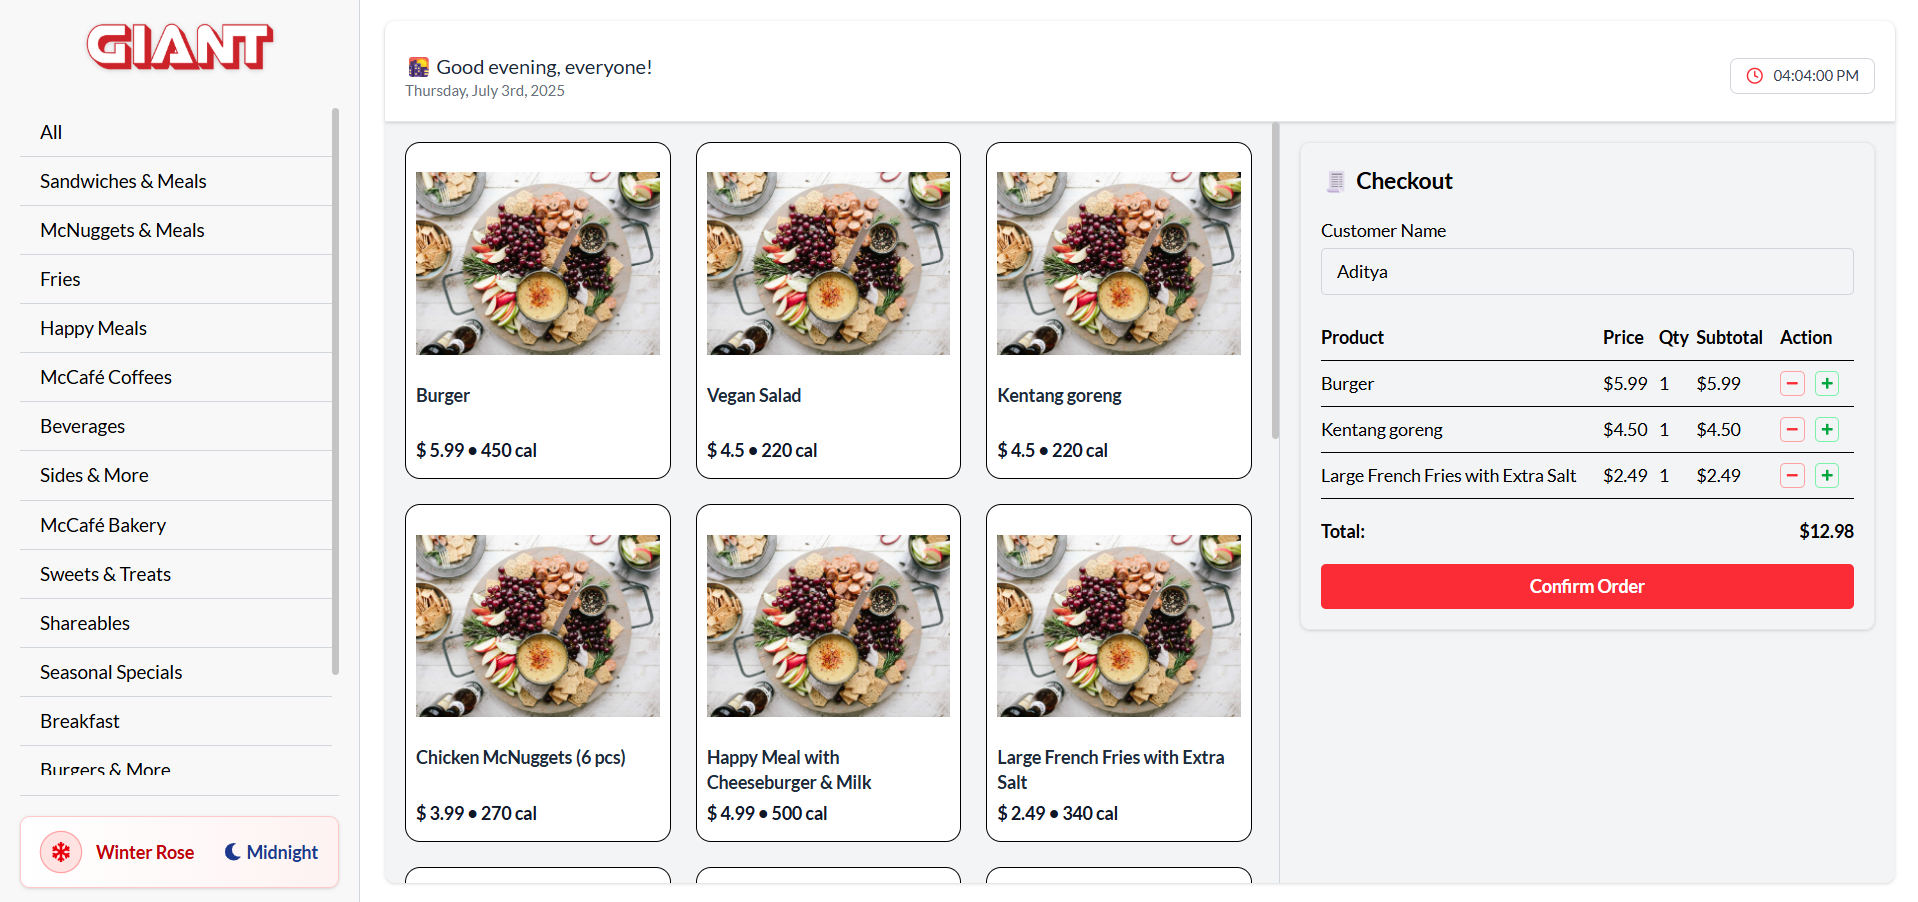
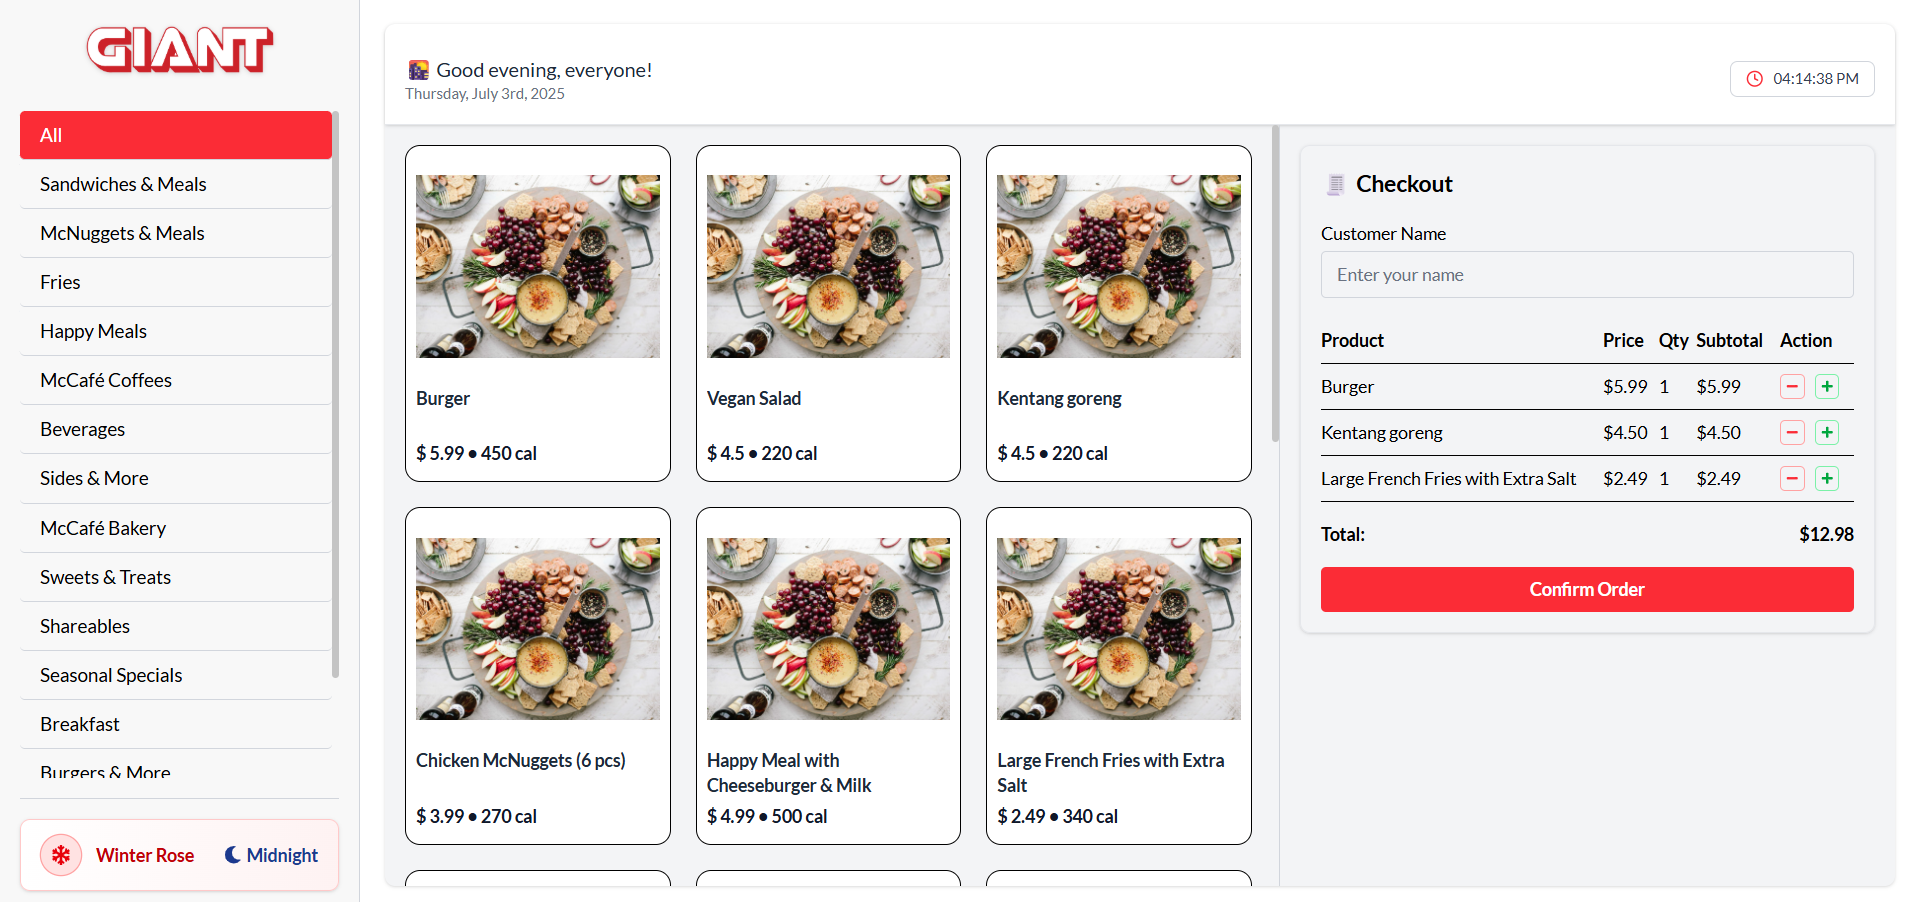
Fix: Sidebar active

diff --git a/src/components/Sidebar/Sidebar.jsx b/src/components/Sidebar/Sidebar.jsx
@@ -2,7 +2,12 @@ import { FaMoon, FaSnowflake } from "react-icons/fa";
 import Company from "./Company";
 import SidebarItem from "./SidebarItem";
 
-export default function Sidebar({ onSelectCategory, isDark, toggleTheme }) {
+export default function Sidebar({
+  onSelectCategory,
+  selectedCategory,
+  isDark,
+  toggleTheme,
+}) {
   const categories = [
     { label: "All", value: "all" },
     { label: "Sandwiches & Meals", value: "sandwiches" },
@@ -37,7 +42,10 @@ export default function Sidebar({ onSelectCategory, isDark, toggleTheme }) {
           <SidebarItem
             key={index}
             label={item.label}
+            value={item.value}
             onClick={() => onSelectCategory(item.value)}
+            isActive={selectedCategory === item.value}
+            isDark={isDark}
           />
         ))}
       </div>

diff --git a/src/components/Sidebar/SidebarItem.jsx b/src/components/Sidebar/SidebarItem.jsx
@@ -1,8 +1,22 @@
-export default function SidebarItem({ label, onClick }) {
+export default function SidebarItem({
+  label,
+  value,
+  onClick,
+  isActive,
+  isDark,
+}) {
+  const activeClass = isActive
+    ? isDark
+      ? "bg-white text-[#1e2a44]"
+      : "bg-red-500 text-white"
+    : isDark
+    ? "text-white hover:bg-gray-700"
+    : "text-black hover:bg-gray-200";
+
   return (
     <div
       onClick={onClick}
-      className="px-4 py-2 cursor-pointer hover:bg-gray-200 transition"
+      className={`px-4 py-2 cursor-pointer transition font-medium rounded ${activeClass}`}
     >
       {label}
     </div>

diff --git a/src/App.jsx b/src/App.jsx
@@ -15,6 +15,7 @@ export default function App() {
       } flex min-h-screen`}
     >
       <Sidebar
+        selectedCategory={selectedCategory}
         onSelectCategory={setSelectedCategory}
         isDark={isDark}
         toggleTheme={toggleTheme}
